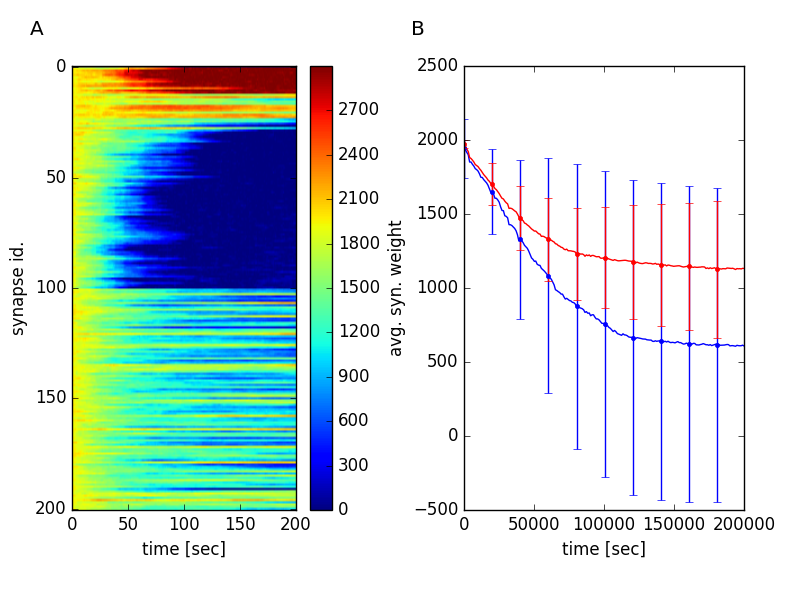
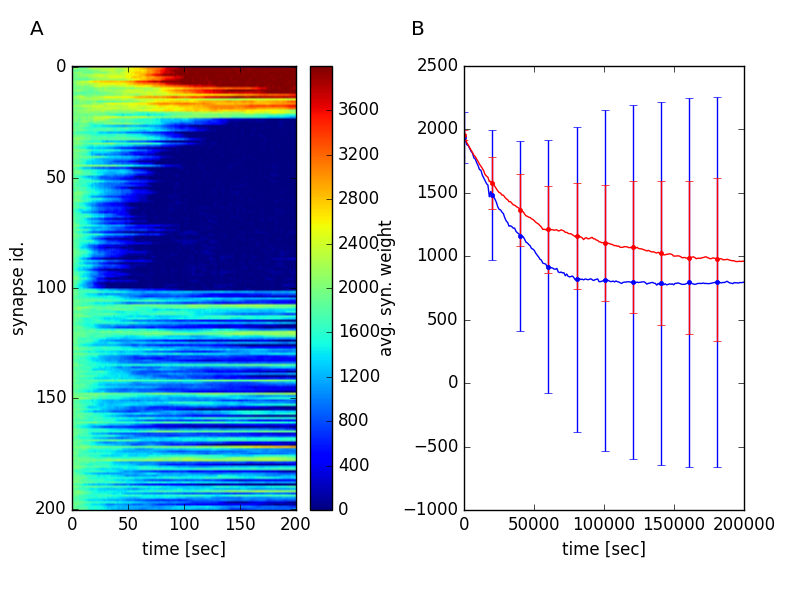
fuck pynest

diff --git a/Assignment3/ex3_stdp.py b/Assignment3/ex3_stdp.py
@@ -232,11 +232,11 @@ def main():
     # perform_simulation(False, jitter=.002, alpha=2.5, Wmax_fact=2, Tsim=200000.0, W=2e3)
 
 #     question 4
-     perform_simulation(True, jitter=0.0, alpha=1.1, Wmax_fact=2., Tsim=200000.0, W=2e3)
+    # perform_simulation(True, jitter=0.0, alpha=1.1, Wmax_fact=2., Tsim=200000.0, W=2e3)
     # perform_simulation(True, jitter=0.0, alpha=1.1, Wmax_fact=1.5, Tsim=200000.0, W=2e3)
 
 #     question 5
-    #perform_simulation(False, jitter=.005, alpha=1.1, Wmax_fact=2., Tsim=200000.0, W=2e3)
+    perform_simulation(False, jitter=.03, alpha=1.1, Wmax_fact=2., Tsim=200000.0, W=2e3)
     #perform_simulation(False, jitter=.01, alpha=1.1, Wmax_fact=2., Tsim=200000.0, W=2e3)
     #perform_simulation(True, jitter=0.0, alpha=1., Wmax_fact=2., Tsim=200000.0, W=2e3)
     #perform_simulation(False, jitter=.00, alpha=4., Wmax_fact=2, Tsim=200000.0, W=2e3) # jitter is in seconds
